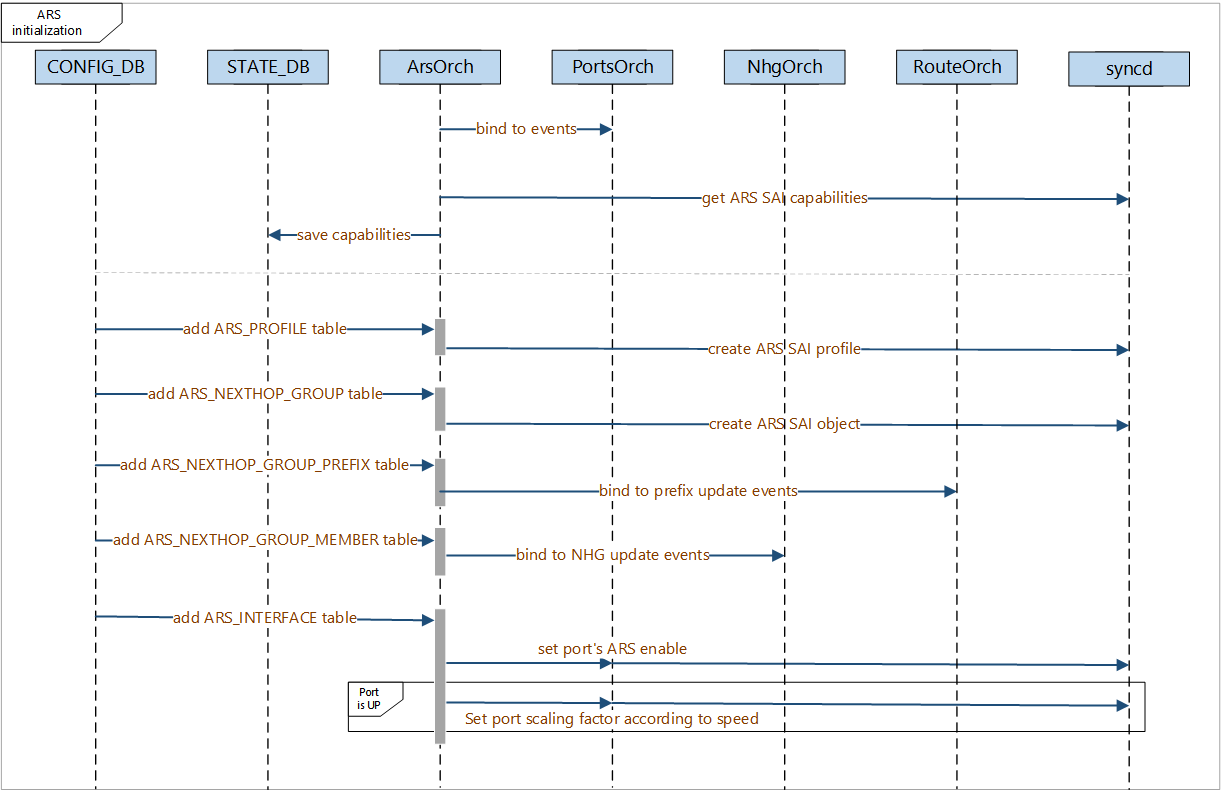
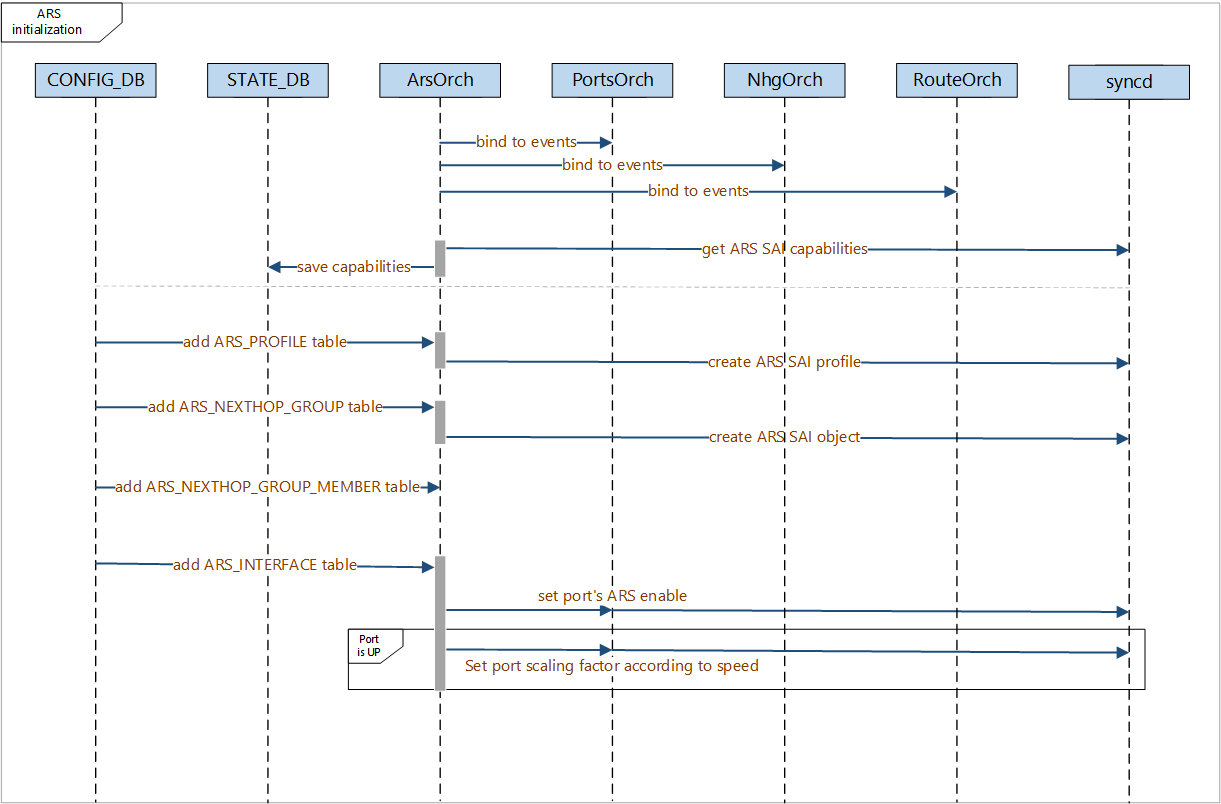
Last minute issues

diff --git a/doc/ARS/Local_ARS_HLD.md b/doc/ARS/Local_ARS_HLD.md
@@ -101,15 +101,12 @@ __Figure 2: ARS SAI Pipeline Flow__
 1. Support different ARS modes:
     - Flowlet-based port selection
     - Per packet port selection
-2. Support enabling ARS over NHG using several modes for NHG identification:
-    - Prefix-based
-    - Nexthop-based
-    - Prefix+Nexthops
-3. Support path quality configuration
-4. Support ACL action to disable ARS 
+2. Support path quality configuration
+3. Support ACL action to disable ARS 
 
 * Phase 2
     - Support enabling ARS over LAG
+    - Support NhgOrch added NHGs
     - Alternative path support
     - Statistics
 
@@ -131,7 +128,7 @@ orchdaemon - it is the main orchestration agent, which handles all Redis DB's up
 routeOrch monitors operations on Route related tables in APPL_DB and converts those operations in SAI commands to manage IPv4/IPv6 route and nexthops. New functionality for nexthop group change notification and configuring ARS-enabled NHG.
 
 #### NhgOrch
-nhgOrch monitors operations on Nexthop Group related tables in APPL_DB and converts those operations in SAI commands to optimize performence when multiple routes using same NHG. New functionality for nexthop group change notification and configuring ARS-enabled NHG.
+nhgOrch monitors operations on Nexthop Group related tables in APPL_DB and converts those operations in SAI commands to optimize performance when multiple routes using same NHG. New functionality for nexthop group change notification and configuring ARS-enabled NHG.
 
 #### PortsOrch
 portsorch handles all ports-related configurations. New functionality for enabling ARS on ports.
@@ -139,8 +136,9 @@ portsorch handles all ports-related configurations. New functionality for enabli
 #### AclOrch
 aclorch is used to deal with configurations of ACL table and ACL rules. New rule action for control ARS operation.
 
-
-* ARS is closely tied to vendor-specific hardware implementations, requiring thorough validation of all configurations (apis and attributes) using SAI capabilities.
+```
+ARS is closely tied to vendor-specific hardware implementations, requiring thorough validation of all configurations (apis and attributes) using SAI capabilities.
+```
 
 ### High-Level Design 
 
@@ -170,16 +168,13 @@ Table interactions:
 
 4. ARS_PORTCHANNEL table used to specify ARS lag configuration parameters. ArsOrch uses this to create the ARS SAI L2 object.
 
-5. ARS_NEXTHOP_GROUP_PREFIX table specifies which prefixes are used for identifying ARS nexthop group. NHG that are pointed by matched prefixes are elligible for ARS.
+5. ARS_NEXTHOP_GROUP_MEMBER table specifies which nexthops are used for identifying ARS nexthop group. NHG is will be ARS-enabled when all its nexthops match configured ARS_NEXTHOP_GROUP_MEMBER entries and pointing to L2 ARS-enabled interfaces. 
 
-6. ARS_NEXTHOP_GROUP_MEMBER table specifies which nexthops are used for identifying ARS nexthop group. If number of matched nexthops in NHG, reaches required minimum, that NHG is elligible for ARS. 
+There are different options for NHG creation. Two modes of operation are supported:
 
-    Each nexthop's L2 interface is also check against matching entry in ARS_INTERFACE to prevent add non-ARS-enabled interface to the NHG group.
+1. NHG created by RouteOrch. APPL_DB adds entry to ROUTE_TABLE with explicit set of nexthops.
 
-To enable ARS over Nexthop Group, we need to identify NHG. There are different options for NHG creation. Two modes of operation are supported:
-1. NHG created by RouteOrch. APPL_DB adds entry to ROUTE_TABLE with explicit set of nexthops. This mode uses ARS_NEXTHOP_GROUP_PREFIX separately or with combination with ARS_NEXTHOP_GROUP_MEMBER table.
-
-2. NHG created by NhgOrch. APPL_DB first add entry to NEXTHOP_GROUP and later adds entry to ROUTE_TABLE with reference to previously created NHG. This mode uses ARS_NEXTHOP_GROUP_MEMBER table only.
+2. NHG created by NhgOrch. APPL_DB first adds an entry to the NEXTHOP_GROUP_TABLE and later adds an entry to the ROUTE_TABLE with a reference to the previously created NHG. This mode of operation will be supported only when the Nexthop group's SAI ARS object id attribute "set" capability is supported, to prevent NHG recreations when multiple routes point to the updated NHG.
 
 The diagrams below illustrate the typical sequences for ARS configuration, showcasing key workflows for both Adaptive Routing and Adaptive Switching.
 
@@ -188,11 +183,16 @@ The diagrams below illustrate the typical sequences for ARS configuration, showc
 ##### __Figure 4: Initilization flow__
 ![](images/init_seq.png)
 
-1. Bind to PortOrch Events
-    * The ArsOrch component binds to following events to start monitoring and processing ARS-related interfaces:
-        - Port operational status
-        - Port change
-        - Lag member change
+1. Bind to Events
+    - Events from PortOrch
+        * The ArsOrch component binds to following events to start monitoring and processing ARS-related interfaces:
+            - Port operational status
+            - Port change
+            - Lag member change
+    - Events from RouteOrch
+        * The ArsOrch component binds to route updates to monitor nexthop group changes.
+    - Events from NhgOrch
+        * The ArsOrch component binds to nexthop group updates.
 
 2. Get ARS SAI Capabilities
     * ArsOrch retrieves ARS capabilities from the SAI layer and saves them in STATE_DB.
@@ -203,13 +203,10 @@ The diagrams below illustrate the typical sequences for ARS configuration, showc
 4. Add ARS_NEXTHOP_GROUP Table
     * The CONFIG_DB adds the ARS_NEXTHOP_GROUP table, which defines the ARS specific nexthop configuration parameters. ArsOrch uses this to create the ARS SAI object.
 
-5. Add ARS_NEXTHOP_GROUP_PREFIX
-    * The CONFIG_DB adds the ARS_NEXTHOP_GROUP_PREFIX table, which specifies which prefixes are used for identifying ARS nexthop group. NHG that are pointed by matched prefixes are elligible for ARS. ArsOrch binds to events from RouteOrch related to these prefixes.
+5. ARS_NEXTHOP_GROUP_MEMBER Table
+    * The CONFIG_DB adds the ARS_NEXTHOP_GROUP_MEMBER table, which specifies which nexthops are used for identifying ARS nexthop group. If all of nexthops in added NHG, exist in ARS_NEXTHOP_GROUP_MEMBER and are pointing to ARS-enabled L2 interface, that NHG is eligible for ARS.
 
-6. ARS_NEXTHOP_GROUP_MEMBER Table
-    * The CONFIG_DB adds the ARS_NEXTHOP_GROUP_MEMBER table, which specifies which nexthops are used for identifying ARS nexthop group. If number of matched nexthops in NHG, reaches required minimum, that NHG is elligible for ARS. ArsOrch binds to events from NhgOrch using these nexthops.
-
-5. Add ARS_INTERFACE Table
+6. Add ARS_INTERFACE Table
     * The CONFIG_DB adds the ARS_INTERFACE table, causing ArsOrch to enable ARS on the corresponding ports.
 
 ##### __Figure 5: Interface update flow__
@@ -228,7 +225,7 @@ The diagrams below illustrate the typical sequences for ARS configuration, showc
     * The APPL_DB adds the ROUTE_TABLE table, triggering the process.
 2. Notification
     * RouteOrch component will notify ArsOrch of NHG change.
-    * ArsOrch will verify that received notification matches the prefix, nexthops (if required) and nexthops are defined over ARS-enabled ports
+    * ArsOrch will verify that received notification matches the nexthops in ARS_NEXTHOP_GROUP_MEMBER and that nexthops are defined over ARS-enabled ports
 3. Nexthop group's SAI attributes handling:
     * If the "set" capability for the nexthop group's ARS object ID is supported:
         - The nexthop group is updated with the ARS object ID.
@@ -250,11 +247,9 @@ The diagrams below illustrate the typical sequences for ARS configuration, showc
 3. Notification from NhgOrch
     * NhgOrch component notifies ArsOrch of NHG update.
 4. Nexthop group's SAI attributes handling:
-    * If nexthop group's ARS object ID, "set" capability is supported:
+    * If nexthop group's ARS object ID "set" capability is supported:
         - The nexthop group is updated with the ARS object ID.
-    * If "set" capability is not supported - implement via "create" functionality:
-        - Create a new nexthop group with the ARS object ID.
-        - Remove original nexthop group.
+    * If "set" capability is not supported - ignore NHG update.
     * If an alternative path is defined:
         - Identify the relevant nexthops by matching them against the entries in the ARS_NEXTHOP_GROUP_MEMBER table with the role set to "alternative_path."
         - Set these nexthops as part of the alternative path by updating the SAI attributes for the nexthop group or member accordingly.
@@ -486,32 +481,6 @@ Following table lists SAI usage and supported attributes with division to phase 
                 }
             }
 
-            leaf match_mode{
-                type enumeration {
-                    enum prefix-based {
-                        description
-                            "ARS is enabled when route prefix matches the ARS_NEXTHOP_GROUP_PREFIX prefix";
-                    }
-                    enum nexthop-based {
-                        description
-                            "ARS is enabled when the nexthop IPs match the ARS_NEXTHOP_GROUP_MEMBER IPs";
-                    }
-                    enum prefix-nexthop-based {
-                        description
-                            "ARS is enabled when the both route prefix matches the ARS_NEXTHOP_GROUP_PREFIX prefix and nexthop IPs match the ARS_NEXTHOP_GROUP_MEMBER IPs";
-                    }
-                }
-                mandatory false;
-                default prefix-based;
-                description " The filtering method used to identify when to apply ARS over nexthop group. ;
-            }
-
-            leaf nexthop_min_match_count {
-                description "Minimum number of nexthops to match when it is nexthop-based. Default behavior is to match all nexthops.";
-                default 0;
-                type uint16;
-            }
-
             leaf assign_mode {
                 type enumeration {
                     enum per_flowlet_quality{
@@ -553,48 +522,6 @@ Following table lists SAI usage and supported attributes with division to phase 
         /* end of list ARS_NEXTHOP_GROUP_LIST */
     }
     /* end of container ARS_NEXTHOP_GROUP */
-```
-
-
-##### ARS_NEXTHOP_GROUP_PREFIX
-
-```
-    container ARS_NEXTHOP_GROUP_PREFIX {
-
-        description "ARS-enabled Nexthop Groups based on matching prefix";
-
-        list ARS_NEXTHOP_GROUP_PREFIX_LIST {
-
-            key "vrf_name ip_prefix";
-
-            leaf vrf_name {
-                type union {
-                    type string {
-                        pattern "default";
-                    }
-                    type leafref {
-                        path "/vrf:sonic-vrf/vrf:VRF/vrf:VRF_LIST/vrf:name";
-                    }
-                }
-                description "VRF name";
-            } 
-
-            leaf ip_prefix{
-                type stypes:sonic-ip-prefix;
-                description "Ip prefix which identifies nexthop group for which ARS behavior is desired";
-            }
-
-            leaf ars_nhg_name {
-                description "ARS nexthop group name";
-                mandatory true;
-                type leafref {
-                    path "/sars:sonic-ars/sars:ARS_NEXTHOP_GROUP/sars:ARS_NEXTHOP_GROUP_LIST/sars:nhg_name";
-                }
-            }
-        }
-        /* end of list ARS_NEXTHOP_GROUP_PREFIX_LIST */
-    }
-    /* end of container ARS_NEXTHOP_GROUP_PREFIX */
 ```
 
 ##### ARS_NEXTHOP_GROUP_MEMBER
@@ -835,9 +762,6 @@ key                       = ARS_NEXTHOP_GROUP|nhg_name                        ;N
 ;field                    = value
 
 profile_name              = string                                            ;ARS profile Name
-match_mode                = "prefix-based" / "nexthop-based" / 
-                            "prefix-nexthop-based"                            ;match mode for identifying ARS-nexthop group
-nexthop_min_match_count   = uint16                                            ;Minimum number of nexthops to match when it is nexthop-based. Default behavior is to match all nexthops.
 assign_mode               = "per_flowlet_quality" / "per_packet"              ;member selection assignment mode
 flowlet_idle_time         = uint16                                            ;idle time for decting flowlet in macro flow. Relevant only for assign_mode=pre_flowlet
 max_flows                 = uint16                                            ;Max number of flows supported for ARS
@@ -849,32 +773,11 @@ Configuration example:
 "ARS_NEXTHOP_GROUP": {
     "ars_path" : {
         "profile_name": "ars_profile",
-        "match_mode": "prefix-nexthop-based",
-        "nexthop_min_match_count": "3",
         "assign_mode" : "per_flowlet_quality",
         "flowlet_idle_time" : "256",
         "max_flows" : "512",
         "primary_path_threshold" : "100",
         "alternative_path_cost": "250"
-    }
-}
-```
-
-```
-; New table ARS_NEXTHOP_GROUP_PREFIX_TABLE
-; Prefixes associated with ARS-enabled Nexthop group
-
-key                      = ARS_NEXTHOP_GROUP_PREFIX|vrf_name|ip_prefix     ;Route prefix identifing nexhop-group 
-
-;field                   = value
-
-ars_nhg_name             = string                                          ;ARS nexthop group Name
-
-Configuration example:
-
-"ARS_NEXTHOP_GROUP": {
-    "default|192.168.0.100/32" : {
-        "ars_nhg_name": "ars_path"
     }
 }
 ```
@@ -1113,8 +1016,8 @@ Tests separated into two groups - mandatory and optional (only if supported by v
 
 3. ARS for Nexthop Groups (L3 traffic)
     * Confirm that ARS correctly applies to nexthop groups for Adaptive Routing.
-    * Validate per prefix matching.
-    * Validate per nexthop matching.
+    * Validate per nexthop matching when port is enabled for ARS.
+    * Validate per nexthop not-matching when port is disabled for ARS.
     * Validate NHG creation via routeorch and nhgorch.
     * Validate ARS enable on new/existing nexthop groups.
     * Check load balancing when overload single member
@@ -1146,13 +1049,3 @@ Tests separated into two groups - mandatory and optional (only if supported by v
 1. Warm/Fast reboot
     * Verify that ARS configurations are preserved across reboots.
     * verify that ACL configurations are preserved across reboots.
-
-* TODO list
-    - add obeserver notification from NhGrpOrch to ars
-    - add description for matching process
-    - add matching process in diagrams
-    - add diagram for NghGrpOrch (non-default fpm mode) - member match
-    - add description for RO (default mode) - prefix/member match
-    - move alternative path to MEMBER table (role field)
-    - Fix matching criteria naming
-    - Update HLD review comments (?)
